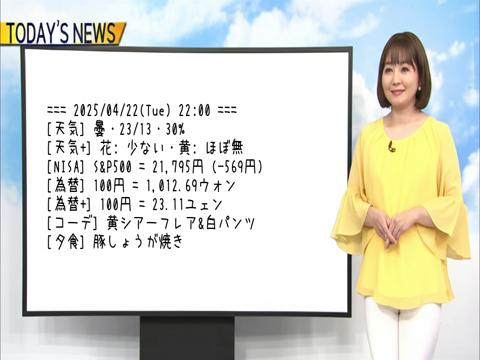
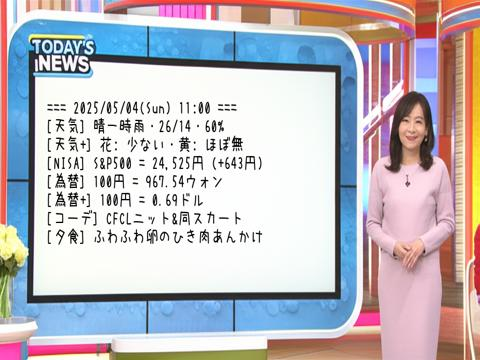
20250504#1_update

diff --git a/apps/today.py b/apps/today.py
@@ -62,7 +62,7 @@ def get_today_info():
     today_won_rate = ex.get_today_won()
 
     # 為替+
-    today_twd_rate = ex.get_ex_info(const.STR_TWD)
+    today_twd_rate = ex.get_ex_info(const.STR_USD)
 
     # コーデ・夕食
     # recommend_outfit_dinner = func_gemini.get_recommend_outfit_dinner(

diff --git a/apps/ex.py b/apps/ex.py
@@ -74,5 +74,6 @@ def get_ex_info(ex_div: str = const.STR_KRW):
 
 
 if __name__ == const.MAIN_FUNCTION:
-    ex_info = get_ex_info()
+    ex_div = const.STR_USD
+    ex_info = get_ex_info(ex_div)
     func.print_test_data(ex_info)
